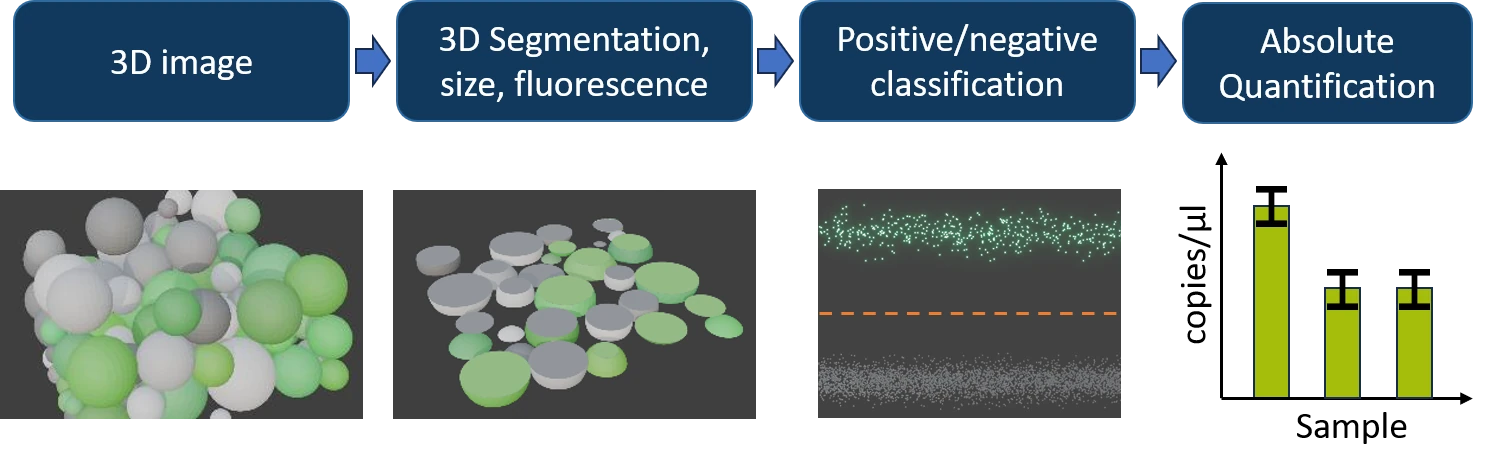
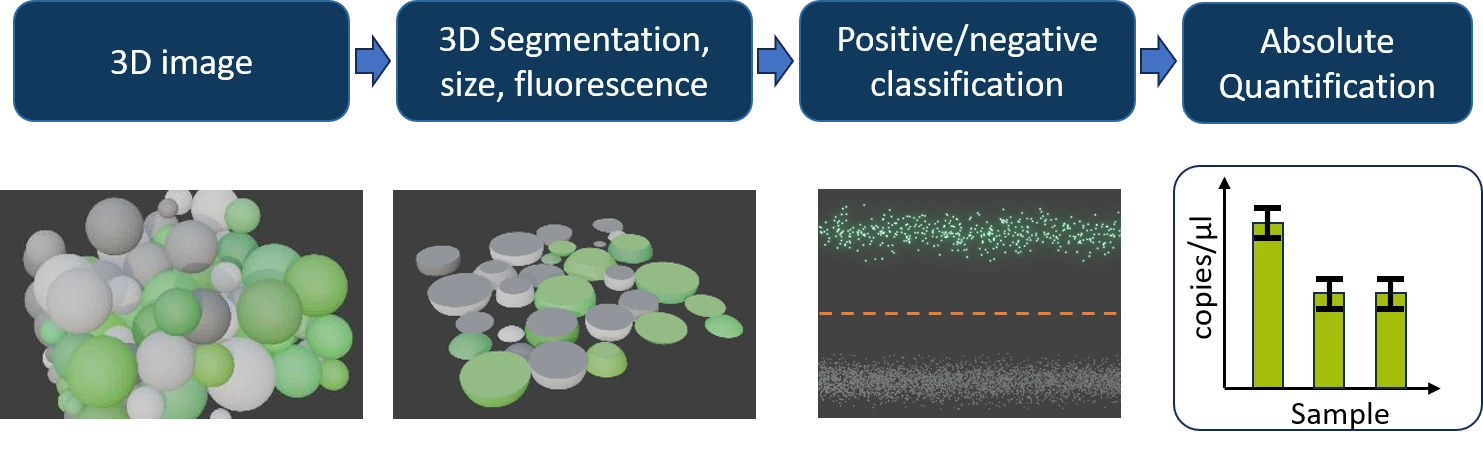
updated analysis pipeline image

diff --git a/index3.html b/index3.html
@@ -158,7 +158,7 @@ noindex: true
           <p>Programmable shaker for rapid emulsion generation.</p>
         </article>
         <article class="card card--media">
-          <div class="card__media card__media--contain"><img src="{{ img }}/plates-reagents.webp" width="686" height="642" loading="lazy" alt="Plates &amp; Reagents"></div>
+          <div class="card__media card__media--contain"><img src="{{ img }}/plates-reagents.png" width="771" height="391" loading="lazy" alt="Plates &amp; Reagents"></div>
           <h3>Plates &amp; Reagents</h3>
           <p>Purpose-built edPCR consumables.</p>
         </article>
@@ -190,7 +190,6 @@ noindex: true
         <p class="buttons">
           <a class="btn" href="#technology">Explore the technology</a>
           <a class="btn btn--light" href="mailto:info@dplexbio.com">Partner with DPlexBio</a>
-          <a class="btn" href="#contact">Contact us</a>
         </p>
       </div>
     </section>
